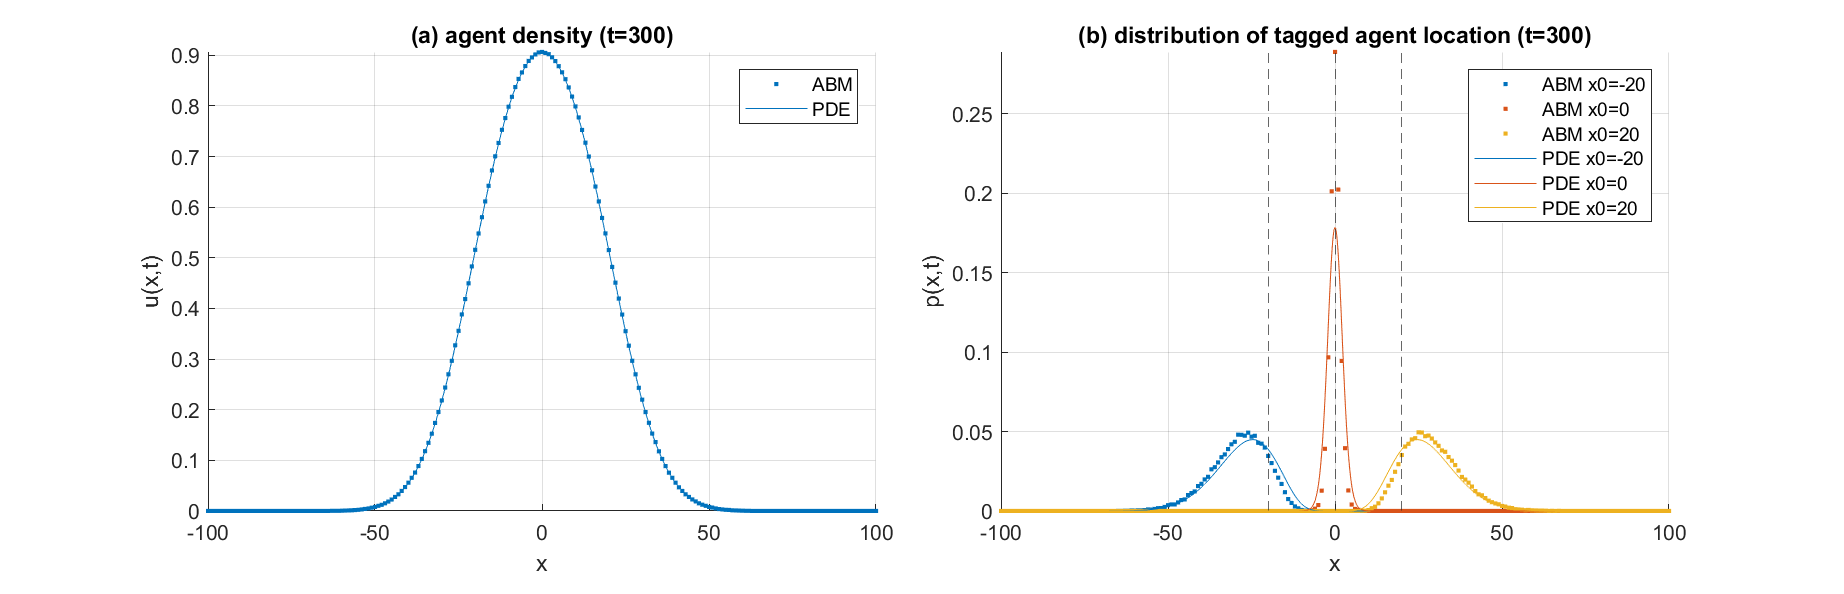
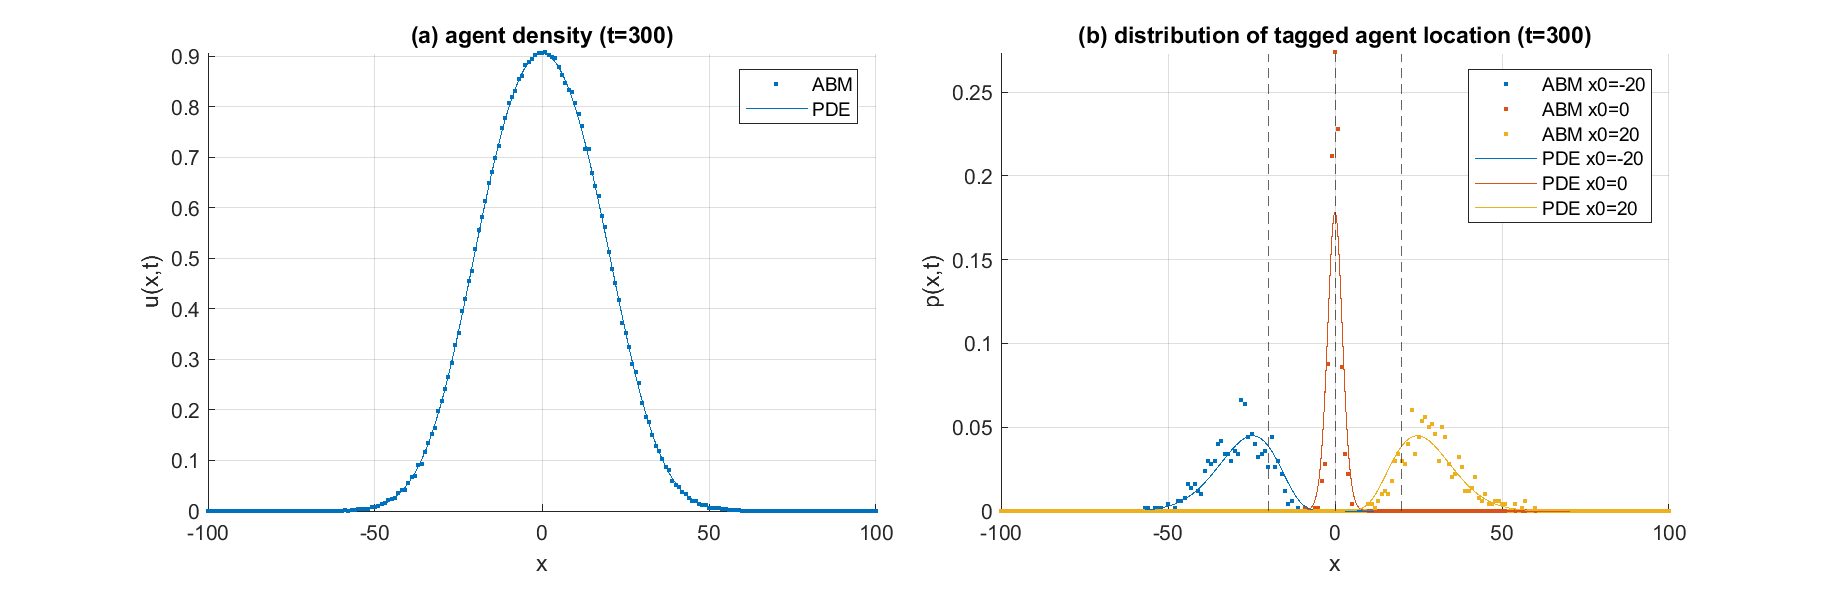
Towards tagged agent location data
First go at extracting time-dependent data on tagged agent location from ABM

diff --git a/code/runOneSim.m b/code/runOneSim.m
@@ -11,6 +11,8 @@ function simResults = runOneSim(par)
 %          simResults.P - array whose (i,j) element contains the count of
 %          tagged agents from tag set j in lattice column i
 %          simResults.nAgents - row vector containing the total agent count at each time step
+%          simResults.xTagged - array whose (i,j,k) element is the location
+%          of the jth tagged agent in the ith tag set at time point k
 
 
 %%%%%%%%%%%%%%%%%%%%%%%%%%%%%%%%%%%%%%%%%%%%%%%%%%%%%%%%%%%%%%%%%%%%%%%%%
@@ -43,22 +45,23 @@ nTagSets = length(par.xTag);
 occStatus = abs(XA) <= par.x0 & rand(size(XA)) < par.U0;
 
 % Create an array to store the number of agents at each time step
-simResults.nAgents = zeros(1, par.tMax+1);
+nAgents = zeros(1, par.tMax+1);
 
 % Get the number of agents and make arrays for their x and y coords
-simResults.nAgents(1) = sum(sum(occStatus));
-[X, Y] = deal(zeros(1, nMaxAgents));
-X(1:simResults.nAgents(1)) = XA(occStatus);
-Y(1:simResults.nAgents(1))  = YA(occStatus);
+nAgents(1) = sum(sum(occStatus));
+[X, Y] = deal(nan(nMaxAgents, par.tMax+1));
+X(1:nAgents(1), 1) = XA(occStatus);
+Y(1:nAgents(1), 1)  = YA(occStatus);
 
 iTagged = cell(nTagSets, 1);
 for iTagSet = 1:nTagSets
     % Indices of tagged agents (those at the specified x coordinate)
-    ind = find(X(1:simResults.nAgents(1)) == par.xTag(iTagSet));
+    ind = find(X(1:nAgents(1), 1) == par.xTag(iTagSet));
 
     % Randomly sample (without replacement) nTagged of these agents to tag (or tag all of them if there are fewer than nTagged agents at x=xTag)
     % Use a cell array as there could be different numbers of tagged agents in different srets
     iTagged{iTagSet} = randsample(ind, min(par.nTagged, length(ind)), false);
+    
 end
 
 
@@ -68,72 +71,93 @@ end
 
 % Loop through time steps
 for iStep = 1:par.tMax
+    % Copy agent coordinates over to next time step
+    % (will be updatewd later in the loop if there is movement)
+    X(:, iStep+1) = X(:, iStep);
+    Y(:, iStep+1) = Y(:, iStep);
 
-    % MOVEMENT
+    % Copy agent count over to next time step 
+    % (will be updated later in the loop if there is proliferation)
+    nAgents(iStep+1) = nAgents(iStep);
+
+
+    %%%%%%%%%%%
+    % Movement
+    %%%%%%%%%%%
 
     % Choose the number of agents that will attempt to move
-    nMove = binornd(simResults.nAgents(iStep), Pmov);
+    nMove = binornd(nAgents(iStep+1), Pmov);
 
     % Indices of agents selected to move (sample with replacement)
-    iAgents = randsample(simResults.nAgents(iStep), nMove, true);
+    iAgents = randsample(nAgents(iStep+1), nMove, true);
 
     % Loop through agents attempting to move
     for iMove = 1:nMove
         % Generate target site for each motile agent
-        [xTarg, yTarg] = getTargetSite(X(iAgents(iMove)), Y(iAgents(iMove)), rhox, par);
+        [xTarg, yTarg] = getTargetSite(X(iAgents(iMove), iStep+1), Y(iAgents(iMove), iStep+1), rhox, par);
 
         % Check if target site is empty (indexing via x=-xMax+(i-1),
         % y=j-1), otherwise move is aborted and nothing happens
         if occStatus(yTarg+1, xTarg+par.xMax+1) == 0
             % Update occupancy status of current and new sites:
-            occStatus(Y(iAgents(iMove))+1, X(iAgents(iMove))+par.xMax+1) = 0;
+            occStatus(Y(iAgents(iMove), iStep+1) + 1, X(iAgents(iMove), iStep+1) + par.xMax+1) = 0;
             occStatus(yTarg+1, xTarg+par.xMax+1) = 1;
             % Update x and y coords of agent
-            X(iAgents(iMove)) = xTarg;
-            Y(iAgents(iMove)) = yTarg;
+            X(iAgents(iMove), iStep+1) = xTarg;
+            Y(iAgents(iMove), iStep+1) = yTarg;
         end
     end
 
 
-    % PROLIFERATION
+    %%%%%%%%%%%%%%%
+    % Proliferation
+    %%%%%%%%%%%%%%%
 
     % Choose the number of agents that will attempt to proliferate
-    nProl = binornd(simResults.nAgents(iStep), Pprol);
+    nProl = binornd(nAgents(iStep+1), Pprol);
 
     % Indices of agents selected to move (sample with replacement)
-    iAgents = randsample(simResults.nAgents(iStep), nProl, true);
+    iAgents = randsample(nAgents(iStep+1), nProl, true);
 
-    % Copy agent count over to next time step
-    simResults.nAgents(iStep+1) = simResults.nAgents(iStep);
     
     % Loop through agents attempting to move
     for iProl = 1:nProl
          % Generate target site for each proliferative agent (with rhox=0 so no bias)
-        [xTarg, yTarg] = getTargetSite(X(iAgents(iProl)), Y(iAgents(iProl)), 0, par);   
+        [xTarg, yTarg] = getTargetSite(X(iAgents(iProl), iStep+1), Y(iAgents(iProl), iStep+1), 0, par);   
 
         % Check if target site is empty (indexing via x=-xMax+(i-1),
         % y=j-1), otherwise move is aborted and nothing happens
         if occStatus(yTarg+1, xTarg+par.xMax+1) == 0
             % Update occupancy status of target site:
             occStatus(yTarg+1, xTarg+par.xMax+1) = 1;
-            % Update total agent count 
-            simResults.nAgents(iStep+1) = simResults.nAgents(iStep+1)+1;
-            % Store x and y coords of new daughter agent
-            X(simResults.nAgents(iStep+1)) = xTarg;
-            Y(simResults.nAgents(iStep+1)) = yTarg;
+            % Update total agent count (for next time step)
+            nAgents(iStep+1) = nAgents(iStep+1)+1;
+            % Store x and y coords of new daughter agent 
+            X(nAgents(iStep+1), iStep+1) = xTarg;
+            Y(nAgents(iStep+1), iStep+1) = yTarg;
         end
     end
 
 end
 
+% Record data on number of agents in output structure
+simResults.nAgents = nAgents;
+
 % Record column count data for all agents 
-simResults.U = histcounts(X(1:simResults.nAgents(end)), [xa, xa(end)+1])/(par.yMax+1);
+simResults.U = histcounts(X(1:simResults.nAgents(end), end), [xa, xa(end)+1])/(par.yMax+1);
 
-
+% Pre-allocate arrays toi contain data for each tag set
 simResults.P = zeros(nTagSets, length(xa));
+simResults.xTagged = zeros(nTagSets, par.nTagged, par.tMax+1);
 for iTagSet = 1:nTagSets
-    % Record column count data for tagged agents in the ith tag set 
-    simResults.P(iTagSet, :) = histcounts(X(iTagged{iTagSet}), [xa, xa(end)+1]);
+    % Record column count data for tagged agents in ith tag set 
+    simResults.P(iTagSet, :) = histcounts(X(iTagged{iTagSet}, end), [xa, xa(end)+1]);
+    
+    % Get actual number of agents in ith tag set (in case this is < par.nTagged)
+    nTaggedActual = length(iTagged{iTagSet});
+    % Record tagged agent location data
+    simResults.xTagged(iTagSet, 1:nTaggedActual, :) = X(iTagged{iTagSet}, :);
 end
+
 
 

diff --git a/code/doABMsims.m b/code/doABMsims.m
@@ -15,6 +15,12 @@ function ABM_results = doABMsims(nReps, par)
 %$         ABM_results.Pm - array whose (i,j) element is the estmiated PDF
 %for tagged agent location for tag set i and location j
 %          ABM_results.meanAgents = row vector with the mean number of agents at each time step
+%          ABM_results.xMean - array whose (i,j) value is the mean tagged
+%          agent location for tag set i and time point j
+%          ABM_results.xSD - same but for std. dev. of tagged agent location
+%          ABM_results.xMed - same but for median of tagged agent location
+%          ABM_results.xq5 - same but for 5th quantile of tagged agent location
+%          ABM_results.xq95 - same but for 95th qunatile of tagged agent location
 
 
 % Number of lattice sites in horizontal direction
@@ -27,9 +33,10 @@ nTagSets = length(par.xTag);
 U = zeros(nReps, nx );
 P = zeros(nReps, nx, nTagSets );
 nAgents = zeros(nReps, par.tMax+1);
+xTagged = nan(nReps, nTagSets, par.nTagged, par.tMax+1);
 
 % Do nReps independent simulations of the ABM
-parfor iRep = 1:nReps
+for iRep = 1:nReps
     fprintf('  Sim %i/%i\n', iRep, nReps)
     
     % Run ABM simulation model
@@ -41,6 +48,7 @@ parfor iRep = 1:nReps
     U(iRep, :) = simResults.U;
     P(iRep, :, :) = simResults.P';
     nAgents(iRep, :) = simResults.nAgents;
+    xTagged(iRep, :, :, :) = simResults.xTagged;
 end
 
 % Grid of lattice site coorindates
@@ -56,5 +64,15 @@ ABM_results.Pm = squeeze(sum(P, 1)./sum(sum(P, 1), 2))';
 
 % Store nAgents in output structure
 ABM_results.meanAgents = mean(nAgents);
+
+% Calculate statistics of tagged agent locations, averaging over reps and
+% tagged agents (dimensions 1 and 2), and squeezing to leave dimsions (tag set x time)
+ABM_results.xMean = squeeze(mean(xTagged, [1, 3], 'omitnan'));
+ABM_results.xSD = squeeze(std(xTagged, 0, [1, 3], 'omitnan'));
+ABM_results.xMed = squeeze(quantile(xTagged, 0.5, [1, 3] ));
+ABM_results.xq5 = squeeze(quantile(xTagged, 0.05, [1, 3] ));
+ABM_results.xq95 = squeeze(quantile(xTagged, 0.95, [1, 3] ));
+
+
 
 

diff --git a/code/main.m b/code/main.m
@@ -25,7 +25,7 @@ vArr = [0,  0.1, 0,     0.1];         % Advection velocity (used to calculate le
 rArr = [0,  0,   0.025  0.025];       % Proliferation rate
 
 % Numerical settings 
-nReps = 5000;       % Number of repeat simulations to do
+nReps = 50;       % Number of repeat simulations to do
 dx = 0.1;           % Grid size for PDE
 
 % Location to save results

diff --git a/code/plotGraphs.m b/code/plotGraphs.m
@@ -25,7 +25,7 @@ for iCase = 1:nCases
     par.r = rArr(iCase);
     
     h = figure(iCase); 
-    h.Position = [  1996         713        1180         380];
+    h.Position = [  60         550        1180         380];
     tiledlayout(1, 2, 'TileSpacing', 'compact');
     nexttile;
     hold on
